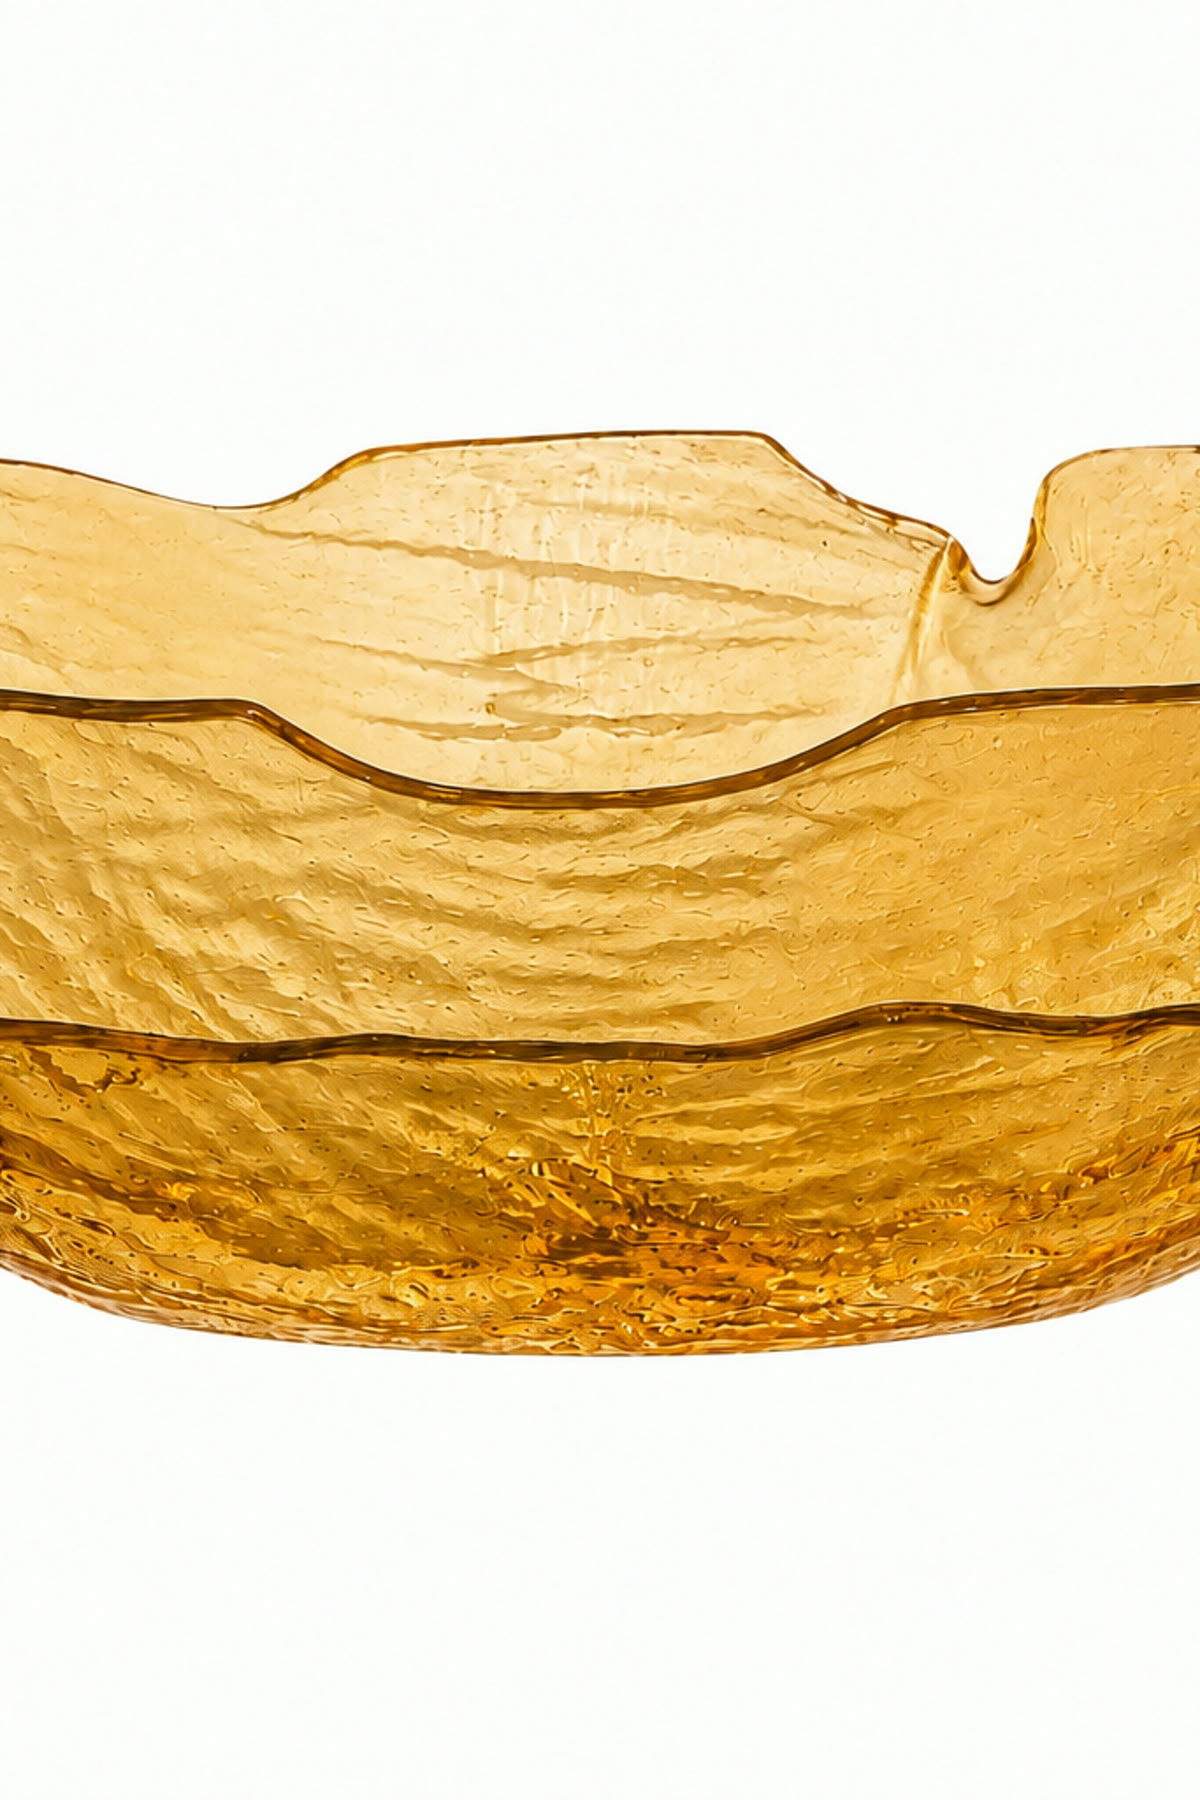
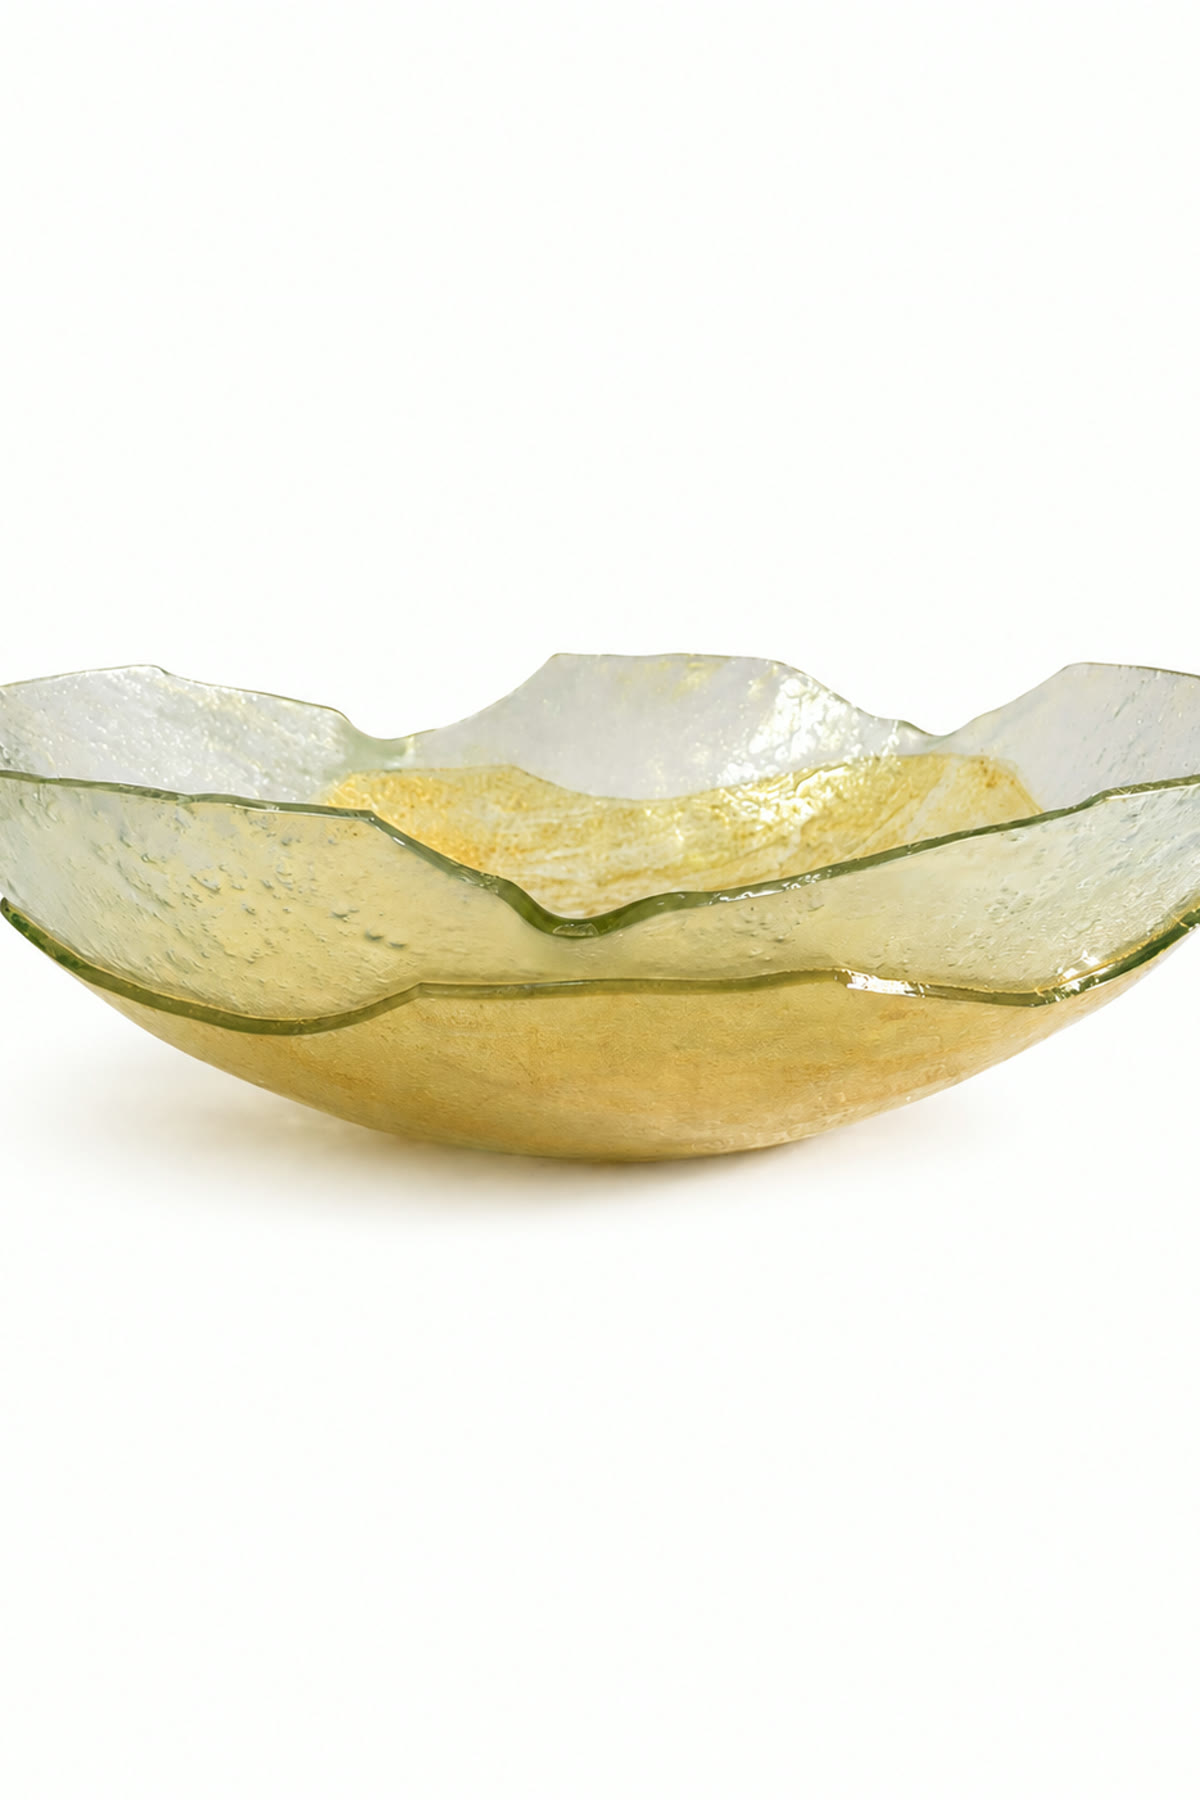
Fix: recuadrar foto Centro de Mesa Marea tono Ambar (quedaba cortada arriba/abajo)
El crop automatico de la foto fuente (retrato 1122x1402) se paso de zoom
vertical y dejaba solo una franja del tazon, cortando el borde superior
e inferior. Recorte rehecho centrado en ancho (crop=ih*2/3:ih) preservando
todo el alto, igual que el resto del catalogo. Verificado en preview local:
foto principal y miniatura del color Ambar ya muestran la pieza completa.

diff --git a/products.js b/products.js
@@ -1178,7 +1178,7 @@ const PRODUCTS=[
       "img/centro-mesa-marea/centro-mesa-marea-04.jpg?v=2",
       "img/centro-mesa-marea/centro-mesa-marea-05.jpg?v=2",
       "img/centro-mesa-marea/centro-mesa-marea-06.jpg?v=2",
-      "img/centro-mesa-marea/centro-mesa-marea-07.jpg?v=1"
+      "img/centro-mesa-marea/centro-mesa-marea-07.jpg?v=2"
     ],
     "colorImages": {
       "Azul": 3,
